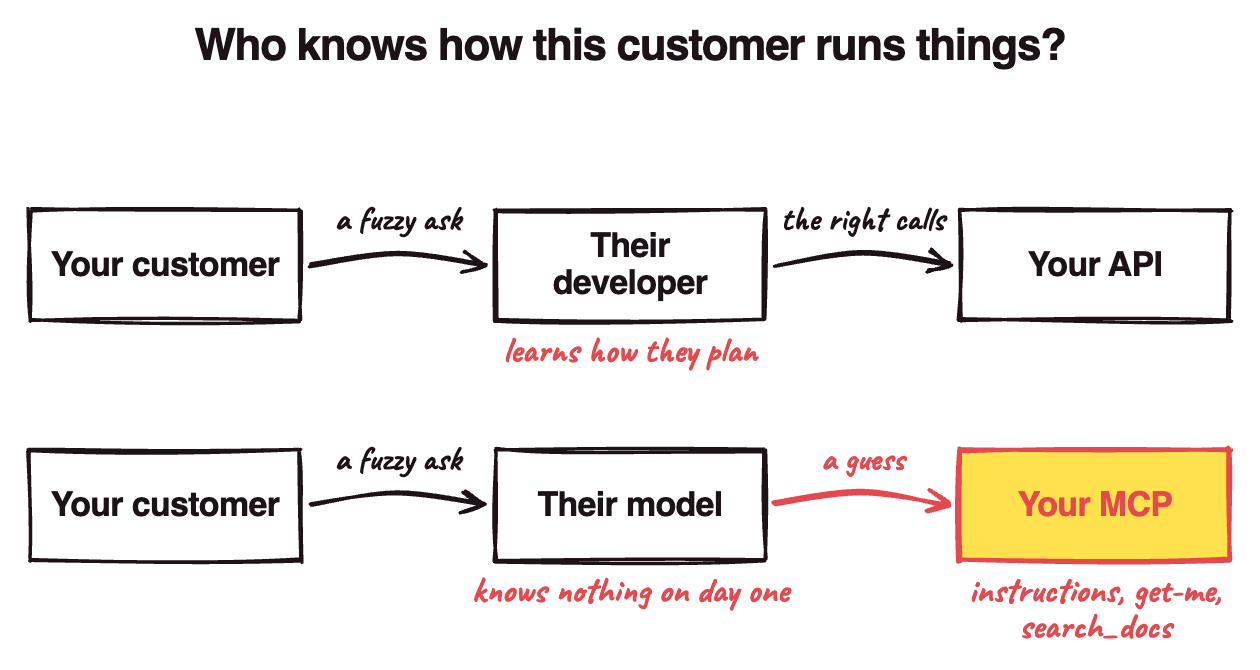
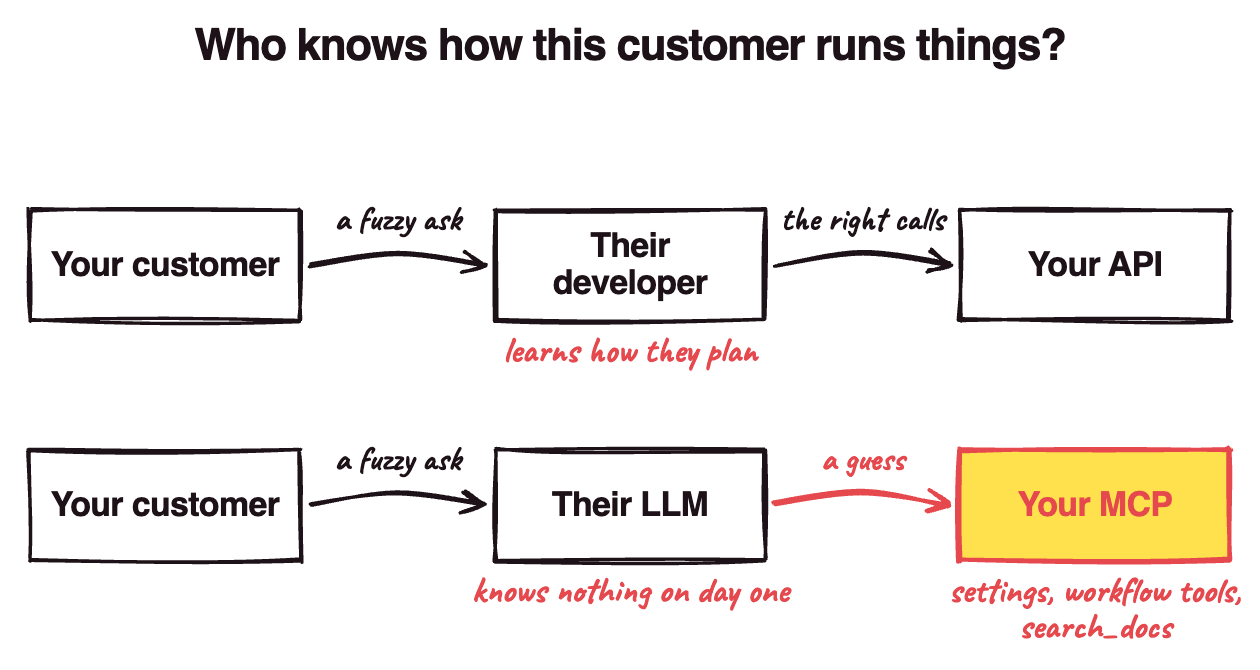
Your MCP has no developer in the middle

Changed region(s): [[0.7429, 0.8657, 0.9905, 0.9254], [0.4333, 0.7164, 0.5881, 0.7761]]

diff --git a/content/blog/your-mcp-has-no-developer-in-the-middle/index.md b/content/blog/your-mcp-has-no-developer-in-the-middle/index.md
@@ -1,55 +1,59 @@
 ---
 title: "Your MCP has no developer in the middle"
-date: "2026-10-08"
+date: "2026-10-09"
 group: "On engineering"
-description: "An API had a developer in the middle who knew your customer's business. An MCP doesn't, so that context has to ship with it."
+description: "An API had a developer in the middle who knew how each customer runs their business. An MCP doesn't, so that context has to ship with it."
 ---
 
-Have you ever been told an MCP is basically just a wrapper around your API? That's what a lot of engineers I talk to believe in 2026. FastMCP's OpenAPI converter is "[the most popular tool](https://www.jlowin.dev/blog/stop-converting-rest-apis-to-mcp) for auto-generating MCP servers from REST APIs" (even though its author's own post is titled "Stop Converting Your REST APIs to MCP"), and Speakeasy and Mintlify sell the same thing.
+Have you ever been told an MCP is basically just a wrapper around your API? That's what a lot of engineers I talk to believe in 2026. The tooling agrees with them: Stainless, Speakeasy and FastMCP will all turn your OpenAPI spec into an MCP server with one tool per endpoint by default.
 
-Your API gets away with being just endpoints because of who reads it. Your customer hires a developer, who learns how they run their business before writing a line, then turns "what should we make next month?" into the right API calls. With an MCP, your customer picks Claude or ChatGPT, and **that model shows up on day one knowing nothing about how they run things**. Nobody's in the middle to translate. It's like sending a temp in on their first day: they can press every button in your software, but nobody told them how this shop runs.
+Your API gets away with being just endpoints because of who uses it. Your customer has a developer who learns how they run their business before writing a line, then turns "what should we make next month?" into the right API calls. With an MCP, your customer picks Claude or ChatGPT, and **that LLM shows up knowing nothing about how they run things**. Nobody's in the middle to translate! So it guesses, and a wrong guess on a production plan can leave your customer with stock they end up throwing out.
 
-![Diagram: with an API, your customer's fuzzy ask goes to their developer, who learns how they plan and makes the right calls. With an MCP, the same ask goes to their model, which knows nothing on day one and sends your MCP a guess.](./no-developer-in-the-middle.png)
+![Diagram: with an API, your customer's fuzzy ask goes to their developer, who learns how they plan and makes the right calls. With an MCP, the same ask goes to their LLM, which knows nothing on day one and sends your MCP a guess.](./no-developer-in-the-middle.png)
 
-So the context that developer used to bring has to ship with your MCP. When it doesn't, the model guesses, and when the guess is wrong, it's your product's name on it.
+So the context that developer used to bring has to ship with your MCP. Ours at Distru has 70+ tools and isn't all the way there yet, so take this as what I think an MCP should look like, and what I'm building toward.
 
-## 1. Find where the model has to guess
+## 1. Find where the LLM has to guess
 
-Say two of your customers (made up for this example) ask your MCP the same thing:
+Say two of your customers ask your MCP the same thing:
 
 > What should my production plan be for next month?
 
 - Company A wants to use up inventory that's about to expire.
 - Company B wants the most revenue.
 
-Planning software leaves that call to each company: Microsoft's Dynamics 365 says "[By default, master plans don't consider shelf life](https://learn.microsoft.com/en-us/dynamics365/supply-chain/master-planning/planning-optimization/shelf-life)", and you switch it on plan by plan. In cannabis, [New York](https://www.metrc.com/wp-content/uploads/2026/05/NY_IB_0015_Sell-by-and-Expiration-Date-Requirements.pdf) and [Minnesota](https://www.metrc.com/wp-content/uploads/2026/05/MN_IB_0062_Expiration-Dates.pdf) made expiration dates mandatory in Metrc (the state's cannabis tracking system) this year. A tool that mirrors your production-planning endpoint gives the model no way to tell which company it's talking to.
+Planning software leaves that call to you: Oracle's planner, for one, lets you [weight profit, on-time delivery and inventory turns](https://docs.oracle.com/cd/E18727-01/doc.121/e13358/T309464T309474.htm) differently on every plan. A tool that mirrors your production-planning endpoint gives the LLM no way to tell which company it's talking to.
 
-Models are bad at that kind of guess. On Salesforce's [CRMArena-Pro](https://arxiv.org/abs/2505.18878) (sales, service and quoting tasks), leading agents in May 2025 finished about 58% of tasks in one turn, and about 35% over a longer conversation. In a 2026 study of data-science agents, they "[commit to plausible but unintended task framings](https://arxiv.org/abs/2605.09698)" on vague tasks instead of asking. The MCP spec does let your server ask the user mid-call, through [elicitation](https://modelcontextprotocol.io/specification/2026-07-28/client/elicitation), but only 17 of the 114 clients in the [community list](https://github.com/modelcontextprotocol/modelcontextprotocol/blob/87993a68166cfec740ca4d6a99cbe661f7aed32c/docs/clients.mdx) (last updated May 2026) supported it!
+Now picture when a user asks Claude "production plan for the next month", and it takes the wrong reading for Company A, and shipping from a fresh lot instead of the one about to expire. **The expiring lot sits on the shelf until it's worthless, and that loss lands in your customer's books.**
 
-Now picture when a user asks Claude "production plan for the next month", and it takes the wrong reading for Company A, and shipping from a fresh lot instead of the one about to expire. **The expiring lot sits on the shelf until it's worthless, and that loss lands in your customer's books, made through your MCP.**
+How often does that happen? On our MCP, Opus 5.5 gets most asks like this right, and Sonnet gets 87% right without our docs. It gets worse as the model gets weaker, and as the ask gets vaguer. In my experience the LLM can drive your software fine; what it gets wrong is what the customer meant.
 
-The model has to guess wherever:
+The LLM has to guess wherever:
 
 1. one question means different things to different customers
 2. a workflow needs it to chain several calls
-3. your terms (what a lot or a manifest means) only make sense with the help center open
-4. a write happens before anyone checks what the customer meant
+3. your terms only make sense with the help center open
 
 ## 2. Ship the context with your MCP
 
-For Company A and Company B, give the model a way to find out who it's talking to. At my company, our MCP has a `get-me` tool that reads the customer's own settings. So the model can plan expiry-first for Company A and revenue-first for Company B, from their settings instead of a guess. When the settings don't say, ask them, wherever the client supports elicitation.
+For Company A and Company B, give the LLM a way to find out who it's talking to. Our MCP has a `get-me` tool that returns the customer's settings. Where I want to take it: a priority the customer sets once in your app (expiring stock, or revenue) that the planning tool reads. Company A picks expiring stock, so the plan starts from the lot about to expire; Company B picks revenue. When the settings don't say, the tool should ask the user (MCP has elicitation for that, though as of this writing few clients support it).
 
-For chained calls, build tools for the few workflows your customers run most. For an ERP, that's something like `calculate_inventory_costs` or `fulfill_sales_order`. Anthropic's [guide to writing tools](https://www.anthropic.com/engineering/writing-tools-for-agents) calls tools that "merely wrap existing software functionality or API endpoints" a common error, and suggests one `schedule_event` tool over separate `list_users`, `list_events` and `create_event` tools.
+For chained calls, build tools for the workflows your customers run most, so the business logic lives in your code instead of in the LLM's guesses. Anthropic's [guide to writing tools](https://www.anthropic.com/engineering/writing-tools-for-agents) suggests one `schedule_event` tool over separate `list_users`, `list_events` and `create_event` tools. For an ERP, that could be:
 
-For better LLM understanding, put the API docs, MCP docs and help center behind one `search_docs` tool, with a description telling the agent when to call it. That's what our MCP does at my company (I wrote [a whole post on it](https://johnnyji.com/making-your-docs-work-for-ai-agents/)).
+- `calculate_inventory_costs`
+- `prepare_inventory_transfer`
 
-For writes, do what [Block's MCP playbook](https://engineering.block.xyz/blog/blocks-playbook-for-designing-mcp-servers) says: "If possible, don't mix read and write operations in the same tool." Then your customer can let reads run on their own and make `fulfill_sales_order` wait for their OK.
+For better LLM understanding, put the API docs, MCP docs and help center behind one `search_docs` tool, with a description telling the agent when to call it. Ours is its own tool, and I wrote [a whole post on it](/one-docs-search-for-every-agent/). Supabase's description is a good one to copy:
+
+> You should default to calling this even if you think you already know the answer, since the documentation is always being updated.
+
+If you want to go further, build an ontology: the same terms, entities and relationships as your docs (a lot has an expiration date, and a production plan draws from lots), as a structured model your tools query instead of pages the LLM reads. Palantir and Microsoft have each customer build their own; build yours once for your whole industry, so your customers don't have to!
 
 ## 3. Leave the long tail generic
 
-Microsoft went the other way with its own ERP. It launched its Dynamics 365 MCP with 13 fixed business tools, then [retired that server on October 1, 2026](https://learn.microsoft.com/en-us/dynamics365/fin-ops-core/dev-itpro/copilot/copilot-mcp) for generic data, form and action tools that pick up each customer's customizations. Its reason: "[The set of available tools was fixed](https://www.microsoft.com/en-us/dynamics-365/blog/it-professional/2025/11/11/dynamics-365-erp-model-context-protocol/), updates required code changes or redeployments, and extending functionality took time." Cloudflare goes further and covers [every endpoint of its API with two tools](https://blog.cloudflare.com/code-mode-mcp/), on the bet that "[LLMs are better at writing code to call MCP, than at calling MCP directly](https://blog.cloudflare.com/code-mode/)".
+There's a good case for going the other way. Cloudflare covers [its whole API with two tools](https://blog.cloudflare.com/code-mode-mcp/) by having the LLM write code against it. Anthropic's own [MCP builder](https://github.com/anthropics/skills/blob/9d630808e4add0a7146de4af9384155d5dee350a/skills/mcp-builder/SKILL.md#L26) now says to cover the whole API when in doubt.
 
-I think they're right about the long tail. Nobody hand-builds a tool for every report a customer might want, so mirrored endpoints and generic tools are fine there. For the common workflows your customers run every week, I'd still build the tool on purpose (just not one giant one).
+I think they're right about the long tail. Nobody hand-builds a tool for every report a customer might want, so mirrored endpoints are fine there. For the common workflows your customers run every week, I'd still build the tool on purpose (just not one giant one). Code Mode still doesn't tell the LLM whether it's talking to Company A or Company B.
 
 Each time you add a workflow tool, ask:
 
@@ -57,4 +61,4 @@ Each time you add a workflow tool, ask:
 2. Does the LLM have access to that, or know that it needs to ask?
 3. Does your MCP provide the correct way for the LLM to access that context?
 
-Company A and Company B each used to have a developer who knew how they planned. Now they have a model, and telling it is your MCP's job.
+Company A and Company B each used to have a developer who knew how they planned. Now they have an LLM, and telling it how they plan is your MCP's job.
